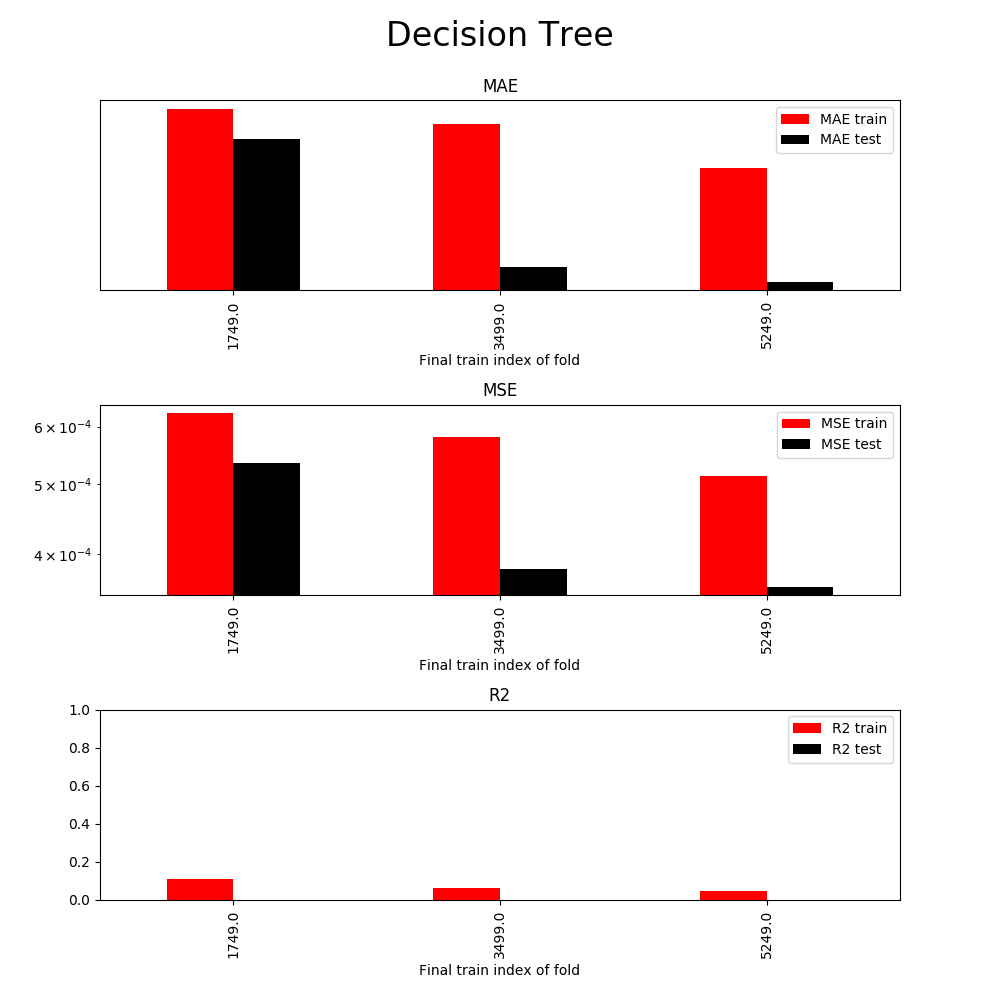
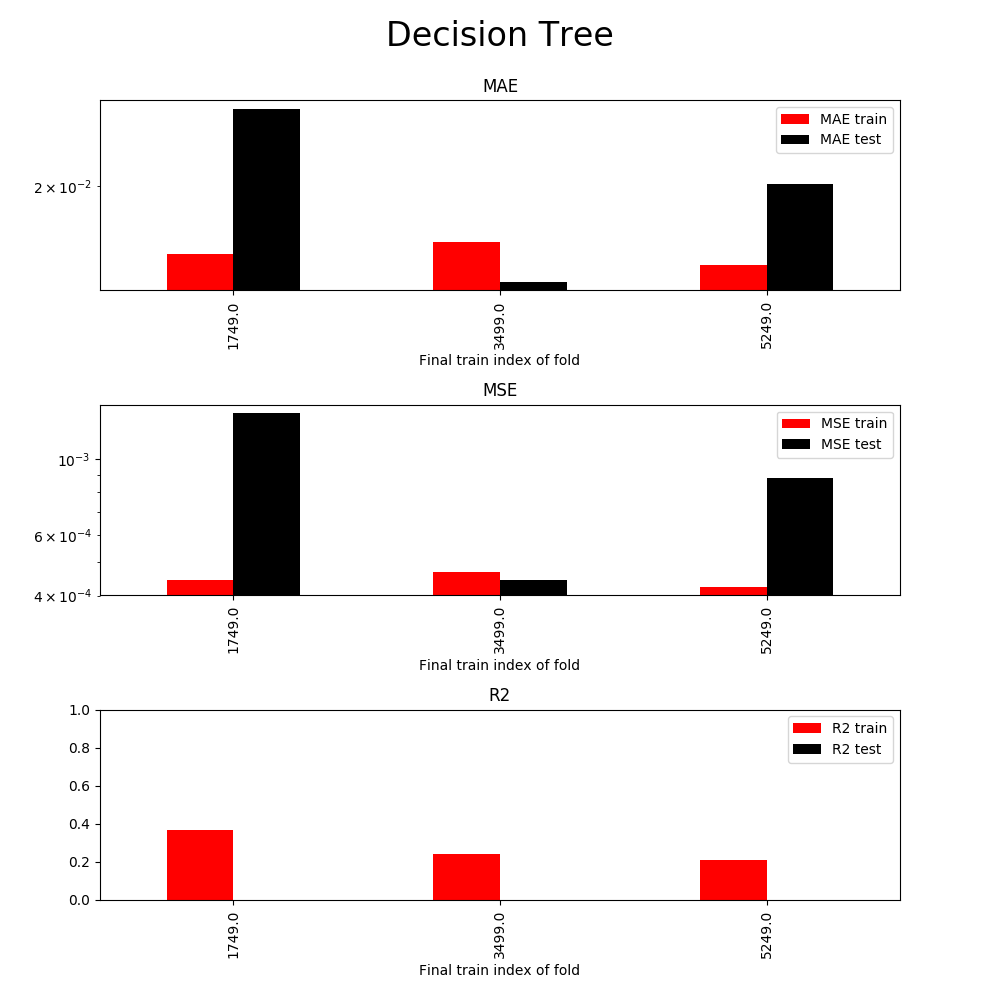
refactor

diff --git a/ml-training/decision_tree.py b/ml-training/decision_tree.py
@@ -18,8 +18,8 @@ def main(X: np.ndarray, y: np.ndarray, tscv_idx) -> None:
     Returns:
         None
     """
-    model = tree.DecisionTreeRegressor(splitter="best", max_depth=3,
-        min_samples_split=5, max_leaf_nodes=None, random_state=1)
+    model = tree.DecisionTreeRegressor(splitter="best", max_depth=18,
+        min_samples_split=5, max_leaf_nodes=50, random_state=1)
     results = pd.DataFrame(columns=["final_train_idx", "MAE train", "MSE train", 
         "R2 train", "MAE test", "MSE test", "R2 test"])
     for train_idx, test_idx in tscv_idx:
@@ -29,12 +29,12 @@ def main(X: np.ndarray, y: np.ndarray, tscv_idx) -> None:
         y_test = y[test_idx,:]
         X_train = PolynomialFeatures(degree=2).fit(X_train).transform(X_train)
         X_test = PolynomialFeatures(degree=2).fit(X_test).transform(X_test)
-        model.fit(X_train, y_train)
-        # params = model.get_params()
-        # coef = model.coef_
+        model.fit(X_train, y_train) # params: model.get_params(), coef = model.coef_
         y_pred = model.predict(X_train)
         mae_train, mse_train, r2_train = performance(y_train, y_pred)
         y_pred = model.predict(X_test)
+        print(y_pred[:30])
+        print(y_pred[-30:])
         mae_test, mse_test, r2_test = performance(y_test, y_pred)
         results.loc[len(results)] = [train_idx[-1], mae_train, mse_train, r2_train,
             mae_test, mse_test, r2_test]
@@ -53,11 +53,11 @@ def grid_search(X: np.ndarray, y: np.ndarray, tscv_idx):
         None
     """
     X = PolynomialFeatures(degree=2).fit(X).transform(X)
-    model = tree.DecisionTreeRegressor(splitter="best", max_depth=10,
-        min_samples_split=2, max_leaf_nodes=None, random_state=2)
+    model = tree.DecisionTreeRegressor(splitter="best", max_depth=14,
+        min_samples_split=5, max_leaf_nodes=None, random_state=2)
     splitter = ["best", "random"]
-    max_depth = [3, 4, 5, 6]
-    min_samples_split = [5, 7, 10, 12, 15]
+    max_depth = [14, 16, 18]
+    min_samples_split = [5, 10, 15]
     max_leaf_nodes = [None, 50, 100, 200]
     param_grid = dict(splitter=splitter, max_depth=max_depth, 
         min_samples_split=min_samples_split, max_leaf_nodes=max_leaf_nodes)

diff --git a/ml-training/training.py b/ml-training/training.py
@@ -20,17 +20,10 @@ def training():
     X = X.values # convert to numpy.ndarray used by sklearn
     y = y.values # convert to numpy.ndarray used by sklearn
     tscv = TimeSeriesSplit(n_splits=3)
-    import linear_regression as lin_reg
-    lin_reg.main(X, y, tscv.split(X))
-    import decision_tree as dtree
-    dtree.main(X, y, tscv.split(X))
-    # dtree.grid_search(X, y, tscv.split(X))
-    import neural_net_scikit as nn_scikit
-    nn_scikit.main(X, y, tscv.split(X))
-    import neural_net_keras as nn_keras
-    nn_keras.main(X, y, tscv.split(X))
-    # nn_keras.grid_search(X, y, tscv.split(X))
-
+    train_linear_reg(X, y, tscv)
+    train_decision_tree(X, y, tscv, False)
+    # train_neural_net(X, y, tscv, False)
+    
 def training_data_from_csv(filename_features, filename_variables):
     """
     Load cvs file of features and target variables from csv
@@ -43,7 +36,25 @@ def training_data_from_csv(filename_features, filename_variables):
     X = pd.read_csv(filename_features, header=0)
     y = pd.read_csv(filename_variables, header=0)
     return X, y
-    
+
+def train_linear_reg(X, y, tscv):
+    import linear_regression as lin_reg
+    lin_reg.main(X, y, tscv.split(X))
+
+def train_decision_tree(X, y, tscv, grid_search=False):
+    import decision_tree as dtree
+    dtree.main(X, y, tscv.split(X))
+    if grid_search:
+        dtree.grid_search(X, y, tscv.split(X))
+
+def train_neural_net(X, y, tscv, grid_search=False):
+    import neural_net_scikit as nn_scikit
+    nn_scikit.main(X, y, tscv.split(X))
+    import neural_net_keras as nn_keras
+    nn_keras.main(X, y, tscv.split(X))
+    if grid_search:
+        nn_keras.grid_search(X, y, tscv.split(X))
+
 def performance(y_true, y_pred):
     """
     Calculates regression performance
